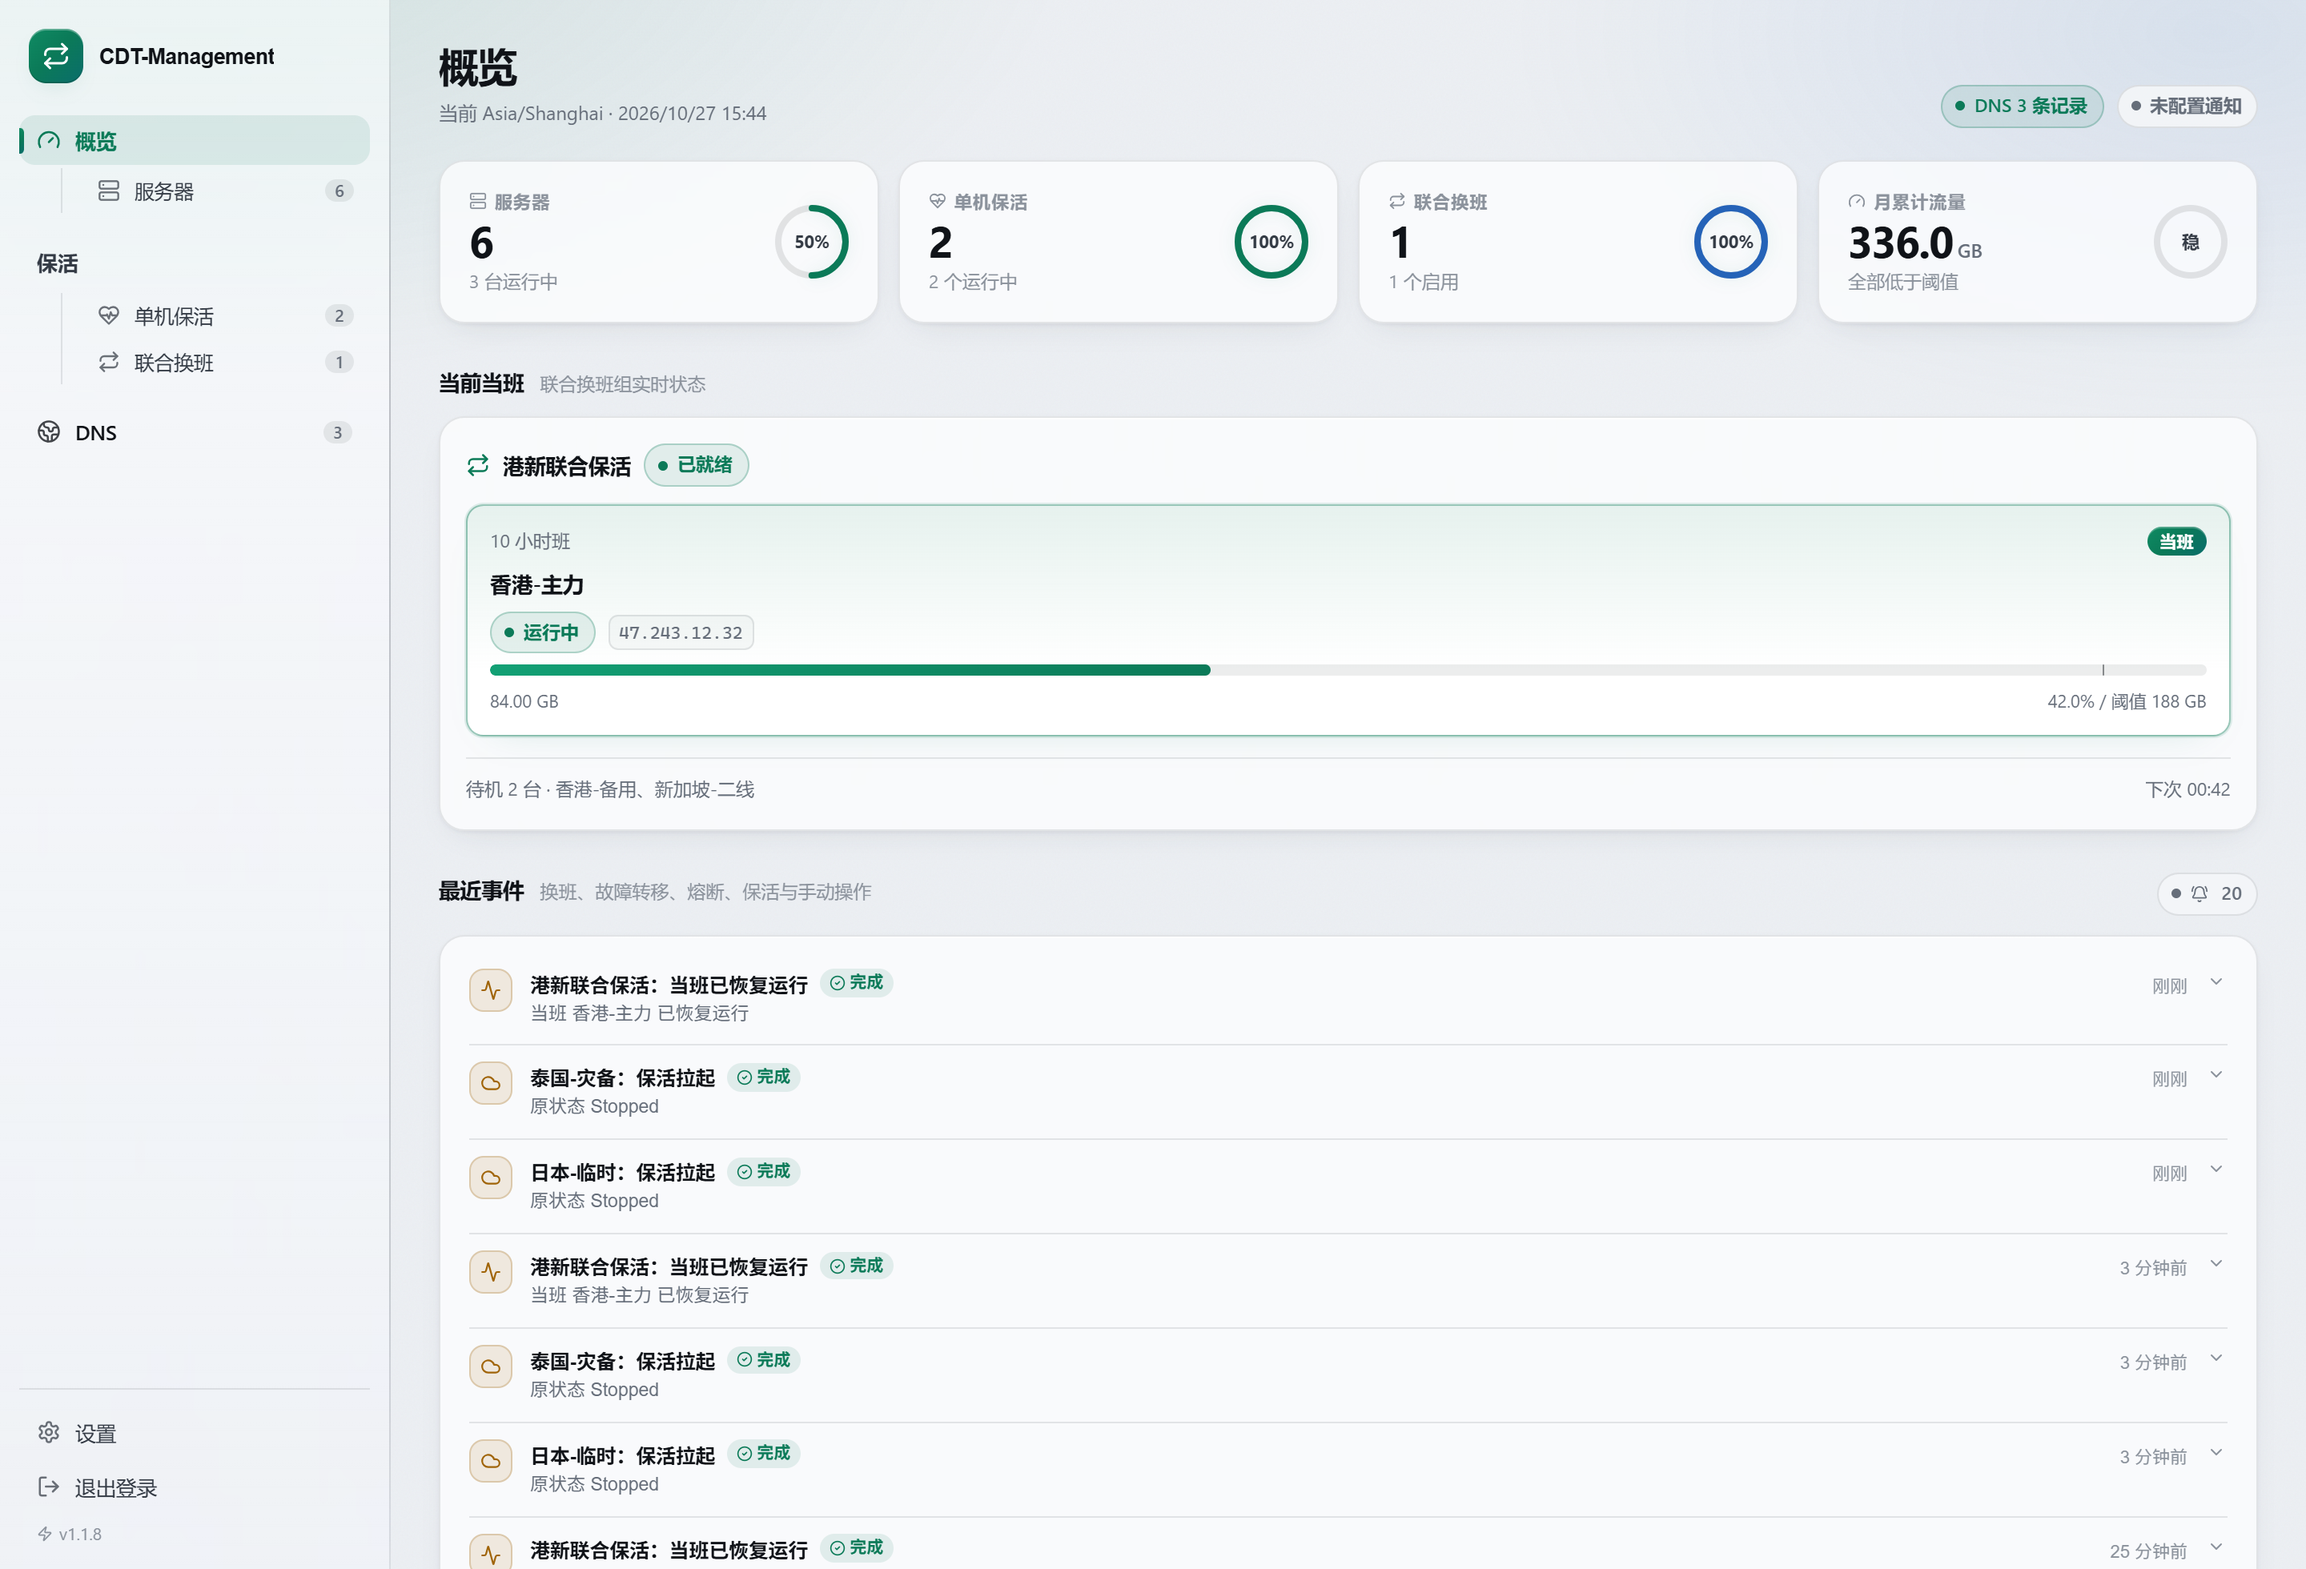
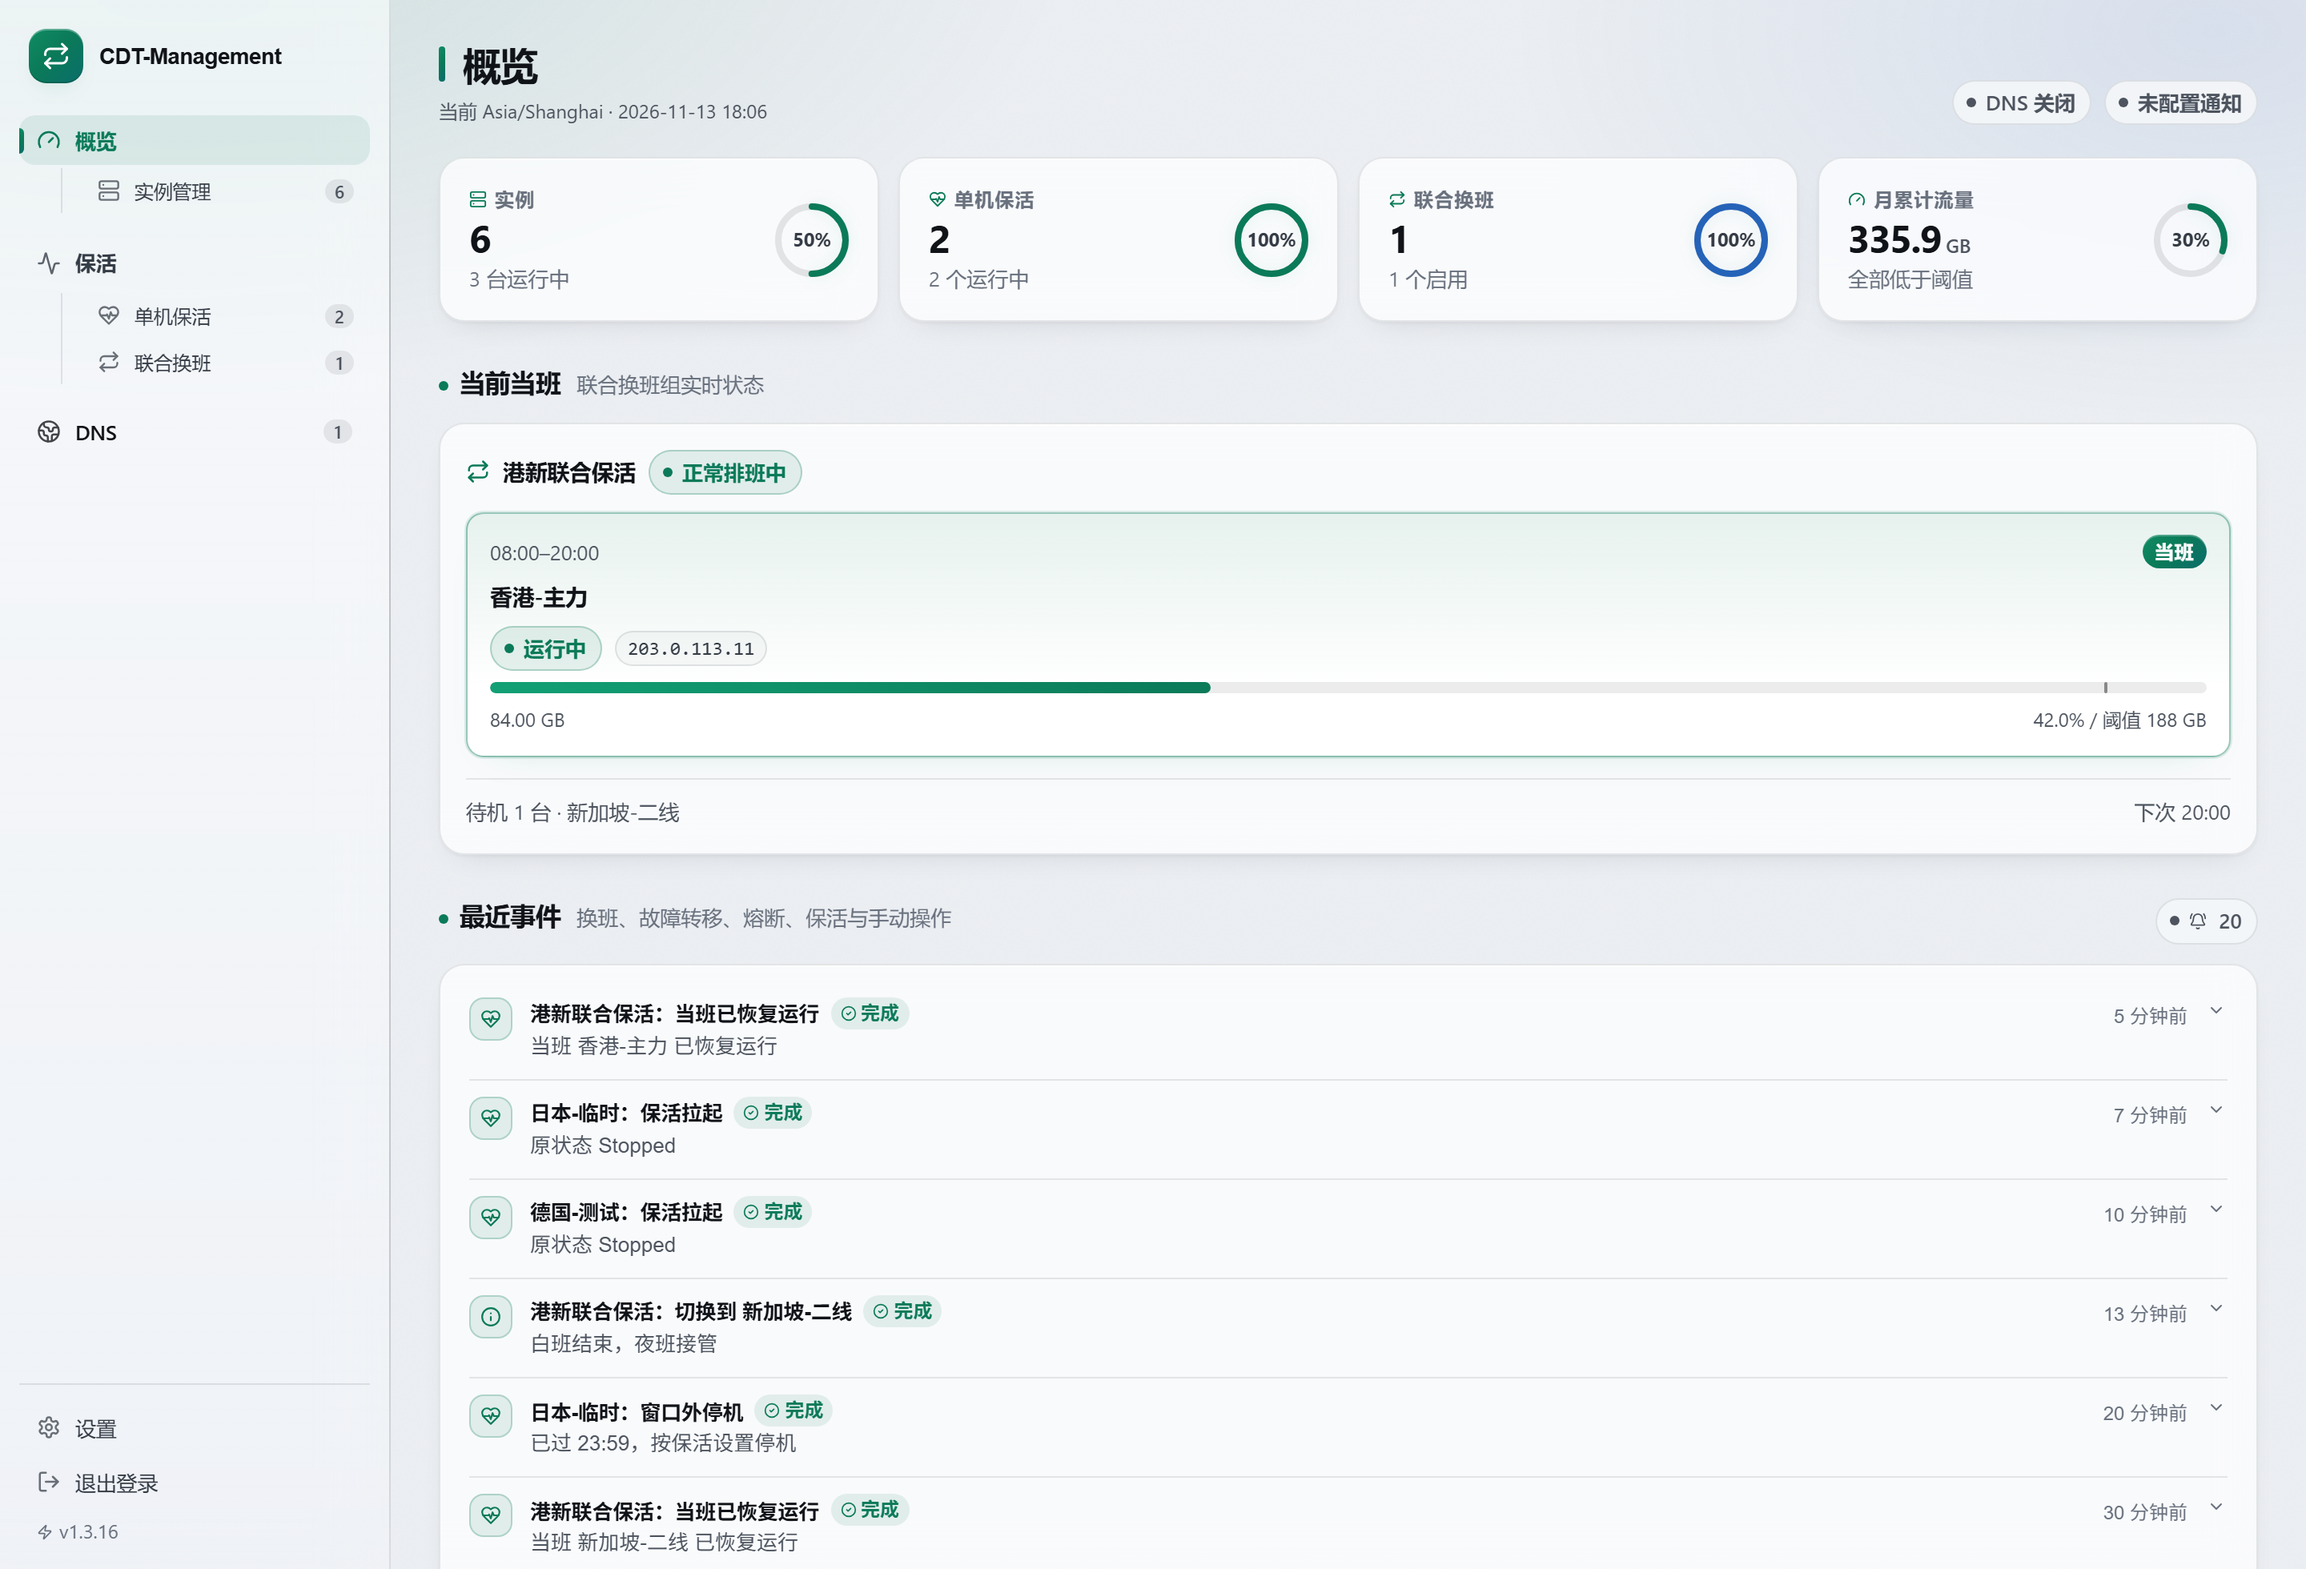
feat: 设置改为独立子界面（常规/DDNS/通知/关于四个标签页），更新 README 首页预览图
- 移除右侧设置抽屉（SettingsDrawer），点侧栏「设置」进入独立页面
- 页面内四个标签页切换：常规设置（默认）、DDNS、通知、关于
- 表单底部改为吸底操作条，支持保存与撤销未保存修改；侧栏「设置」进入时高亮
- README 首页图按新界面重截（1440×980 @2x，演示数据均为虚构）

diff --git a/web/src/components/SettingsView.tsx b/web/src/components/SettingsView.tsx
@@ -5,14 +5,15 @@ import {
   Download,
   Github,
   Globe2,
+  Info,
   KeyRound,
   LoaderCircle,
   Save,
   Send,
   SlidersHorizontal,
   TriangleAlert,
+  Undo2,
   UserRound,
-  X,
 } from 'lucide-react'
 import { SLOW_TIMEOUT_MS, fetchLatestRelease, post } from '../api'
 import type { Settings } from '../types'
@@ -20,7 +21,6 @@ import { Segmented, Switch } from './ui'
 
 type Props = {
   settings: Settings
-  onClose: () => void
   onSaved: (message: string) => void
 }
 
@@ -36,26 +36,50 @@ const TIMEZONES = [
   'UTC',
 ]
 
-export default function SettingsDrawer({ settings, onClose, onSaved }: Props) {
+const TABS: { key: Tab; label: string; icon: typeof SlidersHorizontal }[] = [
+  { key: 'general', label: '常规设置', icon: SlidersHorizontal },
+  { key: 'ddns', label: 'DDNS', icon: Cloud },
+  { key: 'notify', label: '通知', icon: BellRing },
+  { key: 'about', label: '关于', icon: Info },
+]
+
+/** 把接口拿到的设置整理成可编辑草稿：兼容老版本字段与空值 */
+function makeDraft(settings: Settings): Settings {
+  const draft = structuredClone(settings)
+  // 老版本的响应里只有单条 record，补成数组，后面全按数组处理
+  if (!Array.isArray(draft.ddns.records)) draft.ddns.records = []
+  if (draft.ddns.records.length === 0 && draft.ddns.record) {
+    draft.ddns.records = [draft.ddns.record]
+  }
+  // 1.2.6 及以前没有这个字段，补 0 让输入框保持受控
+  if (!draft.reconcile_offset) draft.reconcile_offset = '0'
+  return draft
+}
+
+export default function SettingsView({ settings, onSaved }: Props) {
   const [tab, setTab] = useState<Tab>('general')
   const [notifyTab, setNotifyTab] = useState<NotifyTab>('channel')
-  const [form, setForm] = useState(() => {
-    const draft = structuredClone(settings)
-    // 老版本的响应里只有单条 record，补成数组，后面全按数组处理
-    if (!Array.isArray(draft.ddns.records)) draft.ddns.records = []
-    if (draft.ddns.records.length === 0 && draft.ddns.record) {
-      draft.ddns.records = [draft.ddns.record]
-    }
-    // 1.2.6 及以前没有这个字段，补 0 让输入框保持受控
-    if (!draft.reconcile_offset) draft.reconcile_offset = '0'
-    return draft
-  })
+  const [form, setForm] = useState(() => makeDraft(settings))
   const [error, setError] = useState('')
   const [busy, setBusy] = useState(false)
   const [testing, setTesting] = useState('')
   const [testResult, setTestResult] = useState('')
   const [newUsername, setNewUsername] = useState(settings.admin_username ?? '')
   const [newPassword, setNewPassword] = useState('')
+
+  // 设置被后台刷新（如保存后重新拉取）时，草稿跟着走，避免显示过期值
+  useEffect(() => {
+    setForm(makeDraft(settings))
+    setNewUsername(settings.admin_username ?? '')
+  }, [settings])
+
+  function reset() {
+    setForm(makeDraft(settings))
+    setNewUsername(settings.admin_username ?? '')
+    setNewPassword('')
+    setError('')
+    setTestResult('')
+  }
 
   function patch(updater: (draft: Settings) => void) {
     setForm((current) => {
@@ -163,32 +187,35 @@ export default function SettingsDrawer({ settings, onClose, onSaved }: Props) {
 
   return (
     <>
-      <div className="overlay" style={{ zIndex: 90 }} onMouseDown={onClose} />
-      <aside className="drawer" role="dialog" aria-modal="true">
-        <div className="modal-head">
-          <SlidersHorizontal size={16} style={{ color: 'var(--green)' }} />
-          <h3>设置</h3>
-          <button className="btn ghost icon sm close" onClick={onClose} aria-label="关闭">
-            <X size={16} />
-          </button>
+      <div className="page-head">
+        <div>
+          <h1>设置</h1>
+          <p>
+            账号、巡检节奏、DDNS 解析与通知推送都在这里配置。切换上方标签页即可，改完点底部「保存」生效。
+          </p>
         </div>
+      </div>
 
-        <div className="tabs">
-          <button className={tab === 'general' ? 'on' : ''} onClick={() => setTab('general')}>
-            常规
-          </button>
-          <button className={tab === 'ddns' ? 'on' : ''} onClick={() => setTab('ddns')}>
-            DDNS
-          </button>
-          <button className={tab === 'notify' ? 'on' : ''} onClick={() => setTab('notify')}>
-            通知
-          </button>
-          <button className={tab === 'about' ? 'on' : ''} onClick={() => setTab('about')}>
-            关于
-          </button>
-        </div>
+      <div className="settings-tabs" role="tablist" aria-label="设置分类">
+        {TABS.map((item) => {
+          const Icon = item.icon
+          return (
+            <button
+              key={item.key}
+              type="button"
+              role="tab"
+              aria-selected={tab === item.key}
+              className={tab === item.key ? 'on' : ''}
+              onClick={() => setTab(item.key)}
+            >
+              <Icon size={14} />
+              {item.label}
+            </button>
+          )
+        })}
+      </div>
 
-        <div className="modal-body" style={{ flex: 1 }}>
+      <div className="settings-body">
           {tab === 'general' && (
             <>
               <div className="section-head">
@@ -832,24 +859,24 @@ export default function SettingsDrawer({ settings, onClose, onSaved }: Props) {
           )}
         </div>
 
-        {tab !== 'about' && (
-          <div className="modal-foot">
-            <span className="foot-note">
-              {newUsername !== (settings.admin_username ?? '') || newPassword
-                ? '账号有改动，保存后生效'
-                : '修改会即时生效'}
-            </span>
-            <span className="spacer" />
-            <button className="btn" onClick={onClose}>
-              取消
-            </button>
-            <button className="btn primary" onClick={save} disabled={busy}>
-              {busy ? <LoaderCircle size={14} className="spin" /> : <Save size={14} />}
-              保存
-            </button>
-          </div>
-        )}
-      </aside>
+      {tab !== 'about' && (
+        <div className="settings-actions">
+          <span className="foot-note">
+            {newUsername !== (settings.admin_username ?? '') || newPassword
+              ? '账号有改动，保存后生效'
+              : '修改会即时生效'}
+          </span>
+          <span className="spacer" />
+          <button className="btn" onClick={reset} disabled={busy}>
+            <Undo2 size={14} />
+            撤销修改
+          </button>
+          <button className="btn primary" onClick={save} disabled={busy}>
+            {busy ? <LoaderCircle size={14} className="spin" /> : <Save size={14} />}
+            保存
+          </button>
+        </div>
+      )}
     </>
   )
 }

diff --git a/web/src/App.tsx b/web/src/App.tsx
@@ -23,7 +23,7 @@ import ServersView from './components/ServersView'
 import ShiftView from './components/ShiftView'
 import ServerDialog from './components/ServerDialog'
 import GroupDialog from './components/GroupDialog'
-import SettingsDrawer from './components/SettingsDrawer'
+import SettingsView from './components/SettingsView'
 import ConfirmDialog from './components/ConfirmDialog'
 import DNSView from './components/DNSView'
 import { Badge, Modal } from './components/ui'
@@ -31,7 +31,7 @@ import { ownerLabel } from './owners'
 import { syncClock } from './time'
 
 type Phase = 'loading' | 'setup' | 'login' | 'ready' | 'fatal'
-type View = 'dashboard' | 'keepalive' | 'shift' | 'servers' | 'dns'
+type View = 'dashboard' | 'keepalive' | 'shift' | 'servers' | 'dns' | 'settings'
 type Toast = { id: number; tone: 'success' | 'error' | 'info'; message: string }
 
 /** 删除这类不可撤销的操作，统一走应用内二次确认（window.confirm 在桌面壳里可能被吞掉） */
@@ -120,7 +120,6 @@ export default function App() {
     open: false,
     group: null,
   })
-  const [settingsOpen, setSettingsOpen] = useState(false)
   const [keepalivePicker, setKeepalivePicker] = useState(false)
   // 单机保活设置页：新建时带 server，编辑时带 item
   const [keepaliveDialog, setKeepaliveDialog] = useState<{
@@ -692,7 +691,10 @@ export default function App() {
         </nav>
 
         <div className="sidebar-foot">
-          <button className="nav-item" onClick={() => setSettingsOpen(true)}>
+          <button
+            className={`nav-item${view === 'settings' ? ' on' : ''}`}
+            onClick={() => setView('settings')}
+          >
             <SettingsIcon size={15} />
             <span className="nav-text">设置</span>
           </button>
@@ -779,8 +781,12 @@ export default function App() {
             onAddRecord={addDnsRecord}
             onRemoveRecord={removeDnsRecord}
             onReorder={reorderDns}
-            onOpenSettings={() => setSettingsOpen(true)}
+            onOpenSettings={() => setView('settings')}
           />
+        )}
+
+        {view === 'settings' && settings && (
+          <SettingsView settings={settings} onSaved={refreshAfterSave} />
         )}
 
         <div
@@ -909,17 +915,6 @@ export default function App() {
             setKeepaliveDialog(null)
             void loadAll()
             toast(message, 'success')
-          }}
-        />
-      )}
-
-      {settingsOpen && (
-        <SettingsDrawer
-          settings={settings}
-          onClose={() => setSettingsOpen(false)}
-          onSaved={(message) => {
-            setSettingsOpen(false)
-            void refreshAfterSave(message)
           }}
         />
       )}

diff --git a/web/src/styles.css b/web/src/styles.css
@@ -3415,3 +3415,100 @@ input[type='number']::-webkit-inner-spin-button {
   line-height: 1.65;
   color: var(--muted-soft);
 }
+
+/* ------------------------------------------------------------ 设置子界面 */
+
+/* 设置从右侧抽屉改成独立页面：顶部一排标签页，下面是内容卡片与吸底操作条 */
+.settings-tabs {
+  display: flex;
+  gap: 4px;
+  padding: 4px;
+  margin-bottom: 16px;
+  border: 1px solid var(--line);
+  border-radius: 12px;
+  background: var(--panel-soft);
+  overflow-x: auto;
+  scrollbar-width: none;
+}
+
+.settings-tabs::-webkit-scrollbar {
+  display: none;
+}
+
+.settings-tabs button {
+  display: inline-flex;
+  align-items: center;
+  gap: 7px;
+  padding: 8px 14px;
+  border: 0;
+  border-radius: 9px;
+  background: transparent;
+  color: var(--muted);
+  font-family: inherit;
+  font-size: 13px;
+  font-weight: 600;
+  white-space: nowrap;
+  cursor: pointer;
+  transition:
+    background var(--t-fast) var(--ease),
+    color var(--t-fast) var(--ease);
+}
+
+.settings-tabs button:hover {
+  color: var(--ink);
+  background: var(--panel-inset);
+}
+
+.settings-tabs button.on {
+  background: var(--panel-solid);
+  color: var(--ink);
+  box-shadow: var(--shadow-1);
+}
+
+.settings-tabs button.on svg {
+  color: var(--accent);
+}
+
+.settings-body {
+  padding: 18px;
+  border: 1px solid var(--line);
+  border-radius: var(--radius-lg);
+  background: var(--panel-solid);
+  box-shadow: var(--shadow-1);
+}
+
+/* 吸底操作条：表单很长时不用滚回顶部找保存 */
+.settings-actions {
+  position: sticky;
+  bottom: 12px;
+  z-index: 5;
+  display: flex;
+  align-items: center;
+  gap: 8px;
+  margin-top: 14px;
+  padding: 12px 16px;
+  border: 1px solid var(--line);
+  border-radius: 12px;
+  background: var(--panel-solid);
+  box-shadow: var(--shadow-2);
+}
+
+.settings-actions .foot-note {
+  font-size: 13px;
+  color: var(--muted-soft);
+}
+
+@media (max-width: 700px) {
+  .settings-body {
+    padding: 14px;
+  }
+
+  .settings-actions {
+    bottom: 8px;
+    padding: 10px 12px;
+  }
+
+  .settings-actions .foot-note {
+    display: none;
+  }
+}
